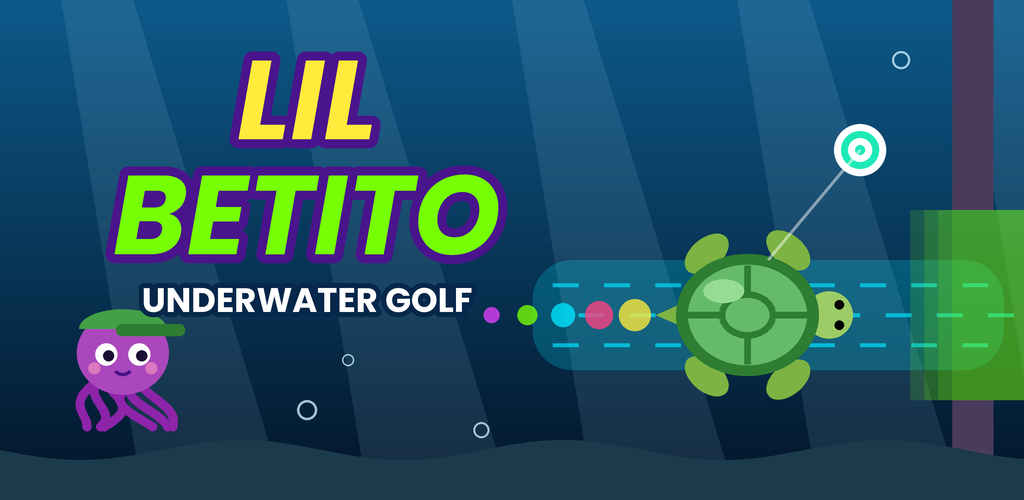
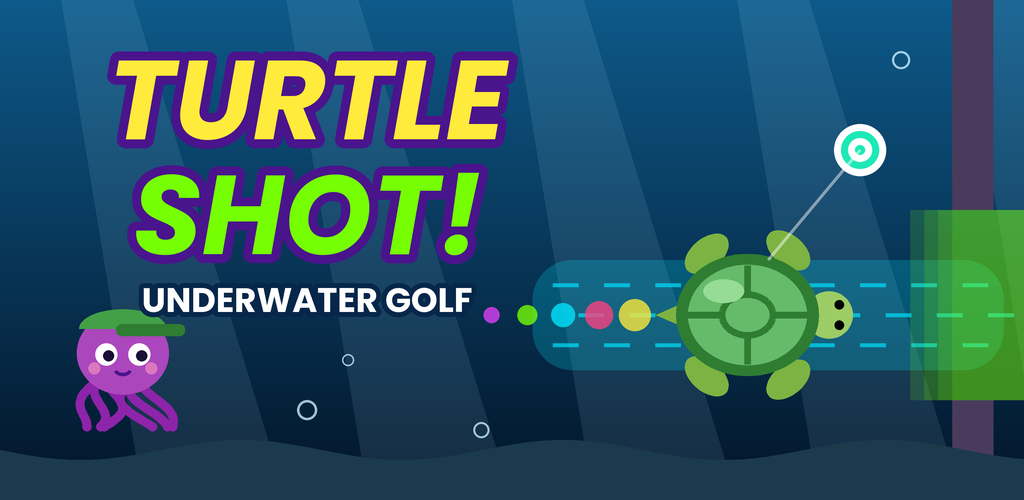
Rename the game to Turtle Shot
Claude-Session: https://claude.ai/code/session_01UqKybsbS29iVAMc8BH73VX

Changed region(s): [[0.0938, 0.09, 0.5312, 0.3], [0.0938, 0.33, 0.5, 0.54]]

diff --git a/app/src/main/java/com/example/spray/MenuView.kt b/app/src/main/java/com/example/spray/MenuView.kt
@@ -188,15 +188,15 @@ class MenuView(ctx: Context, private val prefs: SharedPreferences) : View(ctx) {
         p.strokeJoin = Paint.Join.ROUND
         p.strokeWidth = 9 * d
         p.color = Color.parseColor("#4A148C")
-        c.drawText("LIL", tx, ty - size * 0.95f + bounce, p)
-        c.drawText("BETITO", tx, ty + bounce, p)
+        c.drawText("TURTLE", tx, ty - size * 0.95f + bounce, p)
+        c.drawText("SHOT!", tx, ty + bounce, p)
         p.style = Paint.Style.FILL
         p.textSize = size
         p.color = Color.parseColor("#FFEB3B")
         p.setShadowLayer(6f, 2f, 3f, Color.argb(160, 0, 0, 0))
-        c.drawText("LIL", tx, ty - size * 0.95f + bounce, p)
+        c.drawText("TURTLE", tx, ty - size * 0.95f + bounce, p)
         p.color = Color.parseColor("#76FF03")
-        c.drawText("BETITO", tx, ty + bounce, p)
+        c.drawText("SHOT!", tx, ty + bounce, p)
         p.clearShadowLayer()
         p.typeface = Typeface.DEFAULT_BOLD
         p.textSize = 15 * d

diff --git a/app/src/main/java/com/example/spray/Game.kt b/app/src/main/java/com/example/spray/Game.kt
@@ -60,7 +60,7 @@ class Fish(var x: Float, var y: Float, var vx: Float, val size: Float, val color
 class Bubble(var x: Float, var y: Float, val rad: Float, val speed: Float, val seed: Float)
 
 /**
- * All the game rules for Lil Betito, independent of how it is drawn.
+ * All the game rules for Turtle Shot, independent of how it is drawn.
  *
  * Underwater golf: Betito is the ball. Pull back and let go to shoot him toward the exit gap
  * in the right wall in as few shots as possible (par). Currents are boost lanes: ride several

diff --git a/RELEASE.md b/RELEASE.md
@@ -1,4 +1,4 @@
-# Putting Lil Betito on Google Play
+# Putting Turtle Shot on Google Play
 
 The app is ready for Play: it's a normal full-screen game (no "display over other apps"), targets Android 16 (API 36),
 uses the ID `com.betmor.lilbetito`, has an icon, and saves progress. What's left is stuff only you can do.
@@ -42,7 +42,7 @@ gh run download $(gh run list -L 1 --json databaseId -q '.[0].databaseId') -n li
 ## 3. Google Play Console
 
 1. Sign up at play.google.com/console ($25 once, personal account, ID check).
-2. **Create app**: name *Lil Betito*, Game, Free.
+2. **Create app**: name *Turtle Shot: Underwater Golf*, Game, Free.
 3. **App content** (left menu):
    - Privacy policy: `https://github.com/betmor1904/Lil-Betito/blob/main/PRIVACY.md` (add your contact email to that file first)
    - Ads: **No** (for now; change it when ads are added)

diff --git a/PRIVACY.md b/PRIVACY.md
@@ -1,12 +1,12 @@
-# Lil Betito – Privacy Policy
+# Turtle Shot – Privacy Policy
 
 _Last updated: October 11, 2026_
 
-Lil Betito is a single-player game for Android. This policy explains what the game does with your information.
+Turtle Shot is a single-player game for Android. This policy explains what the game does with your information.
 
 ## What we collect
 
-**Nothing.** Lil Betito does not collect, store on a server, share, or sell any personal information.
+**Nothing.** Turtle Shot does not collect, store on a server, share, or sell any personal information.
 
 - No account or sign-in.
 - No internet connection is used by the game.

diff --git a/store/listing.md b/store/listing.md
@@ -1,13 +1,13 @@
 # Google Play store listing (copy and paste)
 
-**App name** (max 30): Lil Betito: Underwater Golf
+**App name** (max 30): Turtle Shot: Underwater Golf
 
 **Short description** (max 80):
 Shoot a turtle through flooded mazes. Ride currents, chain combos, beat par!
 
 **Full description** (max 4000):
 
-Lil Betito is the ball. The ocean is the course.
+Betito the turtle is the ball. The ocean is the course.
 
 Pull back, let go, and slingshot Betito the turtle through flooded mazes to the glowing hole, in as few shots as you can. It's golf, but underwater, with currents.
 

diff --git a/README.md b/README.md
@@ -1,6 +1,6 @@
-# Lil Betito: Underwater Golf
+# Turtle Shot: Underwater Golf
 
-A sideways Android game: Lil Betito is the ball. Slingshot him through a flooded maze to the glowing hole in as few shots as you can.
+A sideways Android game: Betito the turtle is the ball. Slingshot him through a flooded maze to the glowing hole in as few shots as you can.
 
 ## How to play
 - When he's stopped (green ring), touch anywhere, pull back, let go. The ring around him is the power gauge; the dashed circle shows how far the shot glides in still water.
